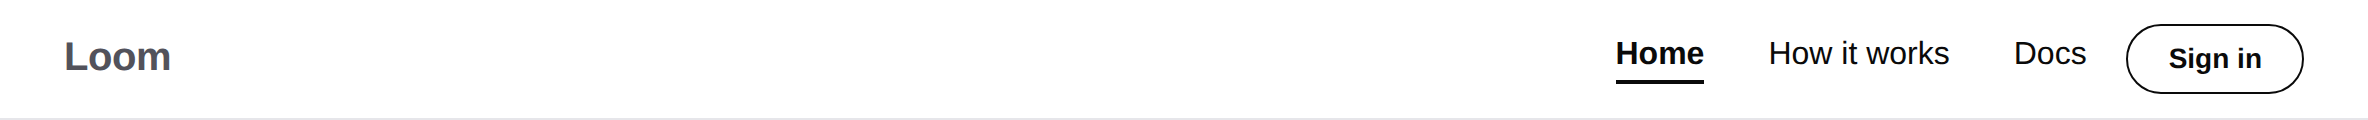
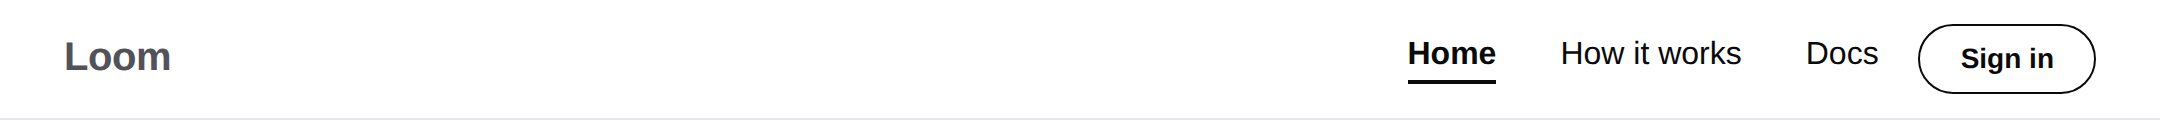
Report: the merge with main, and screenshots re-taken on the merged tree
#108 and #109 landed while this branch was open. FINDINGS.md conflicted — the
same append-against-append three runs finishing on one day produce — and both
sides are kept in the order they landed.

The only change main made inside this lane is two digits in `FACTS`, which is
the open finding about that file behaving exactly as it was designed to. The
report's visuals are re-taken so the numbers on the page match the merged tree.

pnpm verify green across the merge: 1426 runtime, 849 application.

Claude-Session: https://claude.ai/code/session_01V4qMuMnrkMqbFTDPL2sKb4

diff --git a/reports/2026-08-20-marketing-the-front-door.md b/reports/2026-08-20-marketing-the-front-door.md
@@ -106,8 +106,8 @@ stranger should not have to learn a noun to find the door.
 
 ## Tests
 
-`pnpm verify` green — **1407 runtime, 849 application**. Nothing skipped, nothing
-weakened.
+`pnpm verify` green — **1426 runtime, 849 application**, on the tree with
+`main` merged in. Nothing skipped, nothing weakened.
 
 The marketing suite went **67 → 94 tests**. `chrome.test.ts` is new and holds
 eleven of them; it exists because every failure this run fixed is invisible to an
@@ -128,6 +128,20 @@ Added at the page level, over every route and every palette:
   builds *or* a declared surface, and a link to anything else on this origin
   still fails. That is a widening of the rule and it is the one test in this run
   that got weaker; it is written to be weaker by exactly one named list.
+
+## The merge with `main`
+
+#108 and #109 landed while this branch was open and `main` moved two commits
+ahead. **One file conflicted and it was `FINDINGS.md` again** — the same
+append-against-append every routine hits, since three runs finished on the same
+day and all three added entries at the end of the file. Both sides kept, in the
+order they landed: `main`'s nine entries, then this run's two. Nothing rewritten.
+
+Nothing else conflicted. What `main` changed inside this lane is one file and two
+digits — `FACTS` in `copy.ts`, from 41 primitives and 71 records to 45 and 74 —
+which is the open finding about that file doing exactly what it says it does.
+The screenshots in this report were re-taken after the merge, so the numbers in
+them are the merged tree's rather than this branch's.
 
 ## Findings
 
